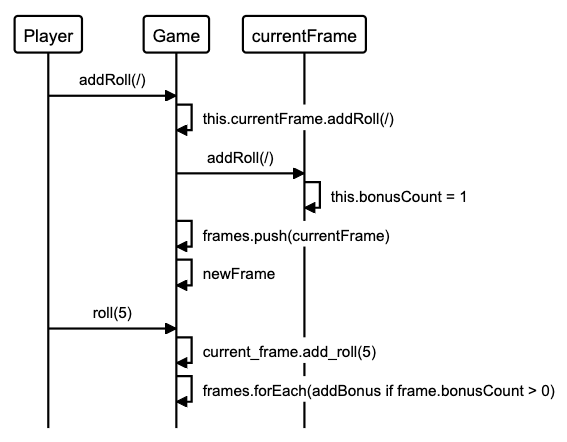
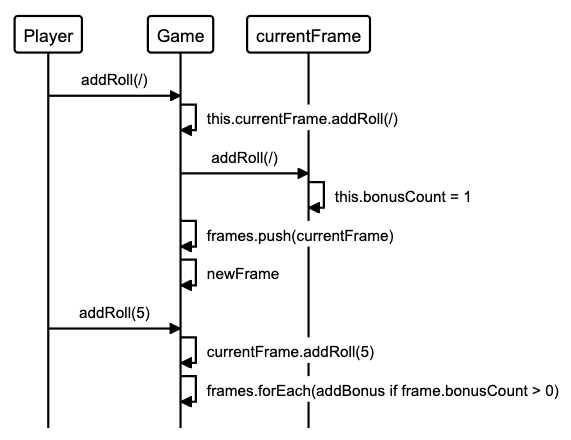
implements score and add roll in frame, sets up jasmine for npm

Changed region(s): [[0.03, 0.0295, 0.9894, 0.975]]

diff --git a/spec/frameSpec.js b/spec/frameSpec.js
@@ -1,0 +1,18 @@
+'use strict';
+
+describe('Frame', function() {
+  let frame;
+
+  beforeEach(function() {
+    // let frameClass = require('../js/src/frame')
+    // frame = new frameClass
+    frame = new Frame
+  })
+
+  describe('score', function() {
+    it('calculates the score after 1 roll', function() {
+      frame.addRoll(5)
+      expect(frame.score()).toBe(5)
+    });
+  });
+});

diff --git a/js/src/frame.js b/js/src/frame.js
@@ -1,0 +1,18 @@
+'use strict';
+
+class Frame {
+  constructor() {
+    this.rolls = [];
+  }
+
+  addRoll(roll) {
+    this.rolls.push(roll);
+  }
+
+  score() {
+    const reducer = (accumulator, currentValue) => accumulator + currentValue;
+    return this.rolls.reduce(reducer);
+  }
+}
+
+// module.exports = Frame;

diff --git a/js/SpecRunner.html b/js/SpecRunner.html
@@ -15,7 +15,7 @@
     <script src="src/frame.js"></script>
 
     <!-- include spec files here... -->
-    <script src="spec/frameSpec.js"></script>
+    <script src="../spec/frameSpec.js"></script>
 
   </head>
 

diff --git a/README.md b/README.md
@@ -1,6 +1,8 @@
 Bowling Challenge 🎳
 ====================
 
+[![Build Status](https://travis-ci.com/AJ8GH/bowling-challenge.svg?branch=master)](https://travis-ci.com/AJ8GH/bowling-challenge)
+
 Bowling score tracker written in JavaScript
 
 ## Getting Started
@@ -9,6 +11,16 @@ Bowling score tracker written in JavaScript
 
 ## Approach and Design
 
+### Classes
+
+Frame:
+-
+
+Game:
+-
+
+## Planning
+
 ### Sequence Diagrams
 
 #### Spare Bonus
@@ -16,5 +28,32 @@ Bowling score tracker written in JavaScript
 ![spare-bonus](public/images/spare-bonus.png)
 
 #### Strike Bonus
-
 ![strike-bonus](public/images/strike-bonus.png)
+
+
+### User Stories
+```
+As a bowler,
+So that I can track my score while I play,
+I want to be able to record a score from 1 roll.
+
+As a bowler,
+So that I can track my total score easily throughout a game,
+I want my scores to automatically accumlate as I enter them.
+
+As a bowler,
+So that my score is accurate and my experience is enjoyable,
+I want my bonuses to be added to frames automatically.
+
+As a bowler,
+So that I can get extra points,
+I want the final frame to allow a bonus roll if I get a spare.
+
+As a bowler,
+So that I can bowl a perfect game,
+I want the final frame to allow 2 bonus rolls if I get a strike.
+
+As a bowler,
+So that my game flows and I can focus on the bowling,
+I want the game to automatically register when it is the final frame.
+```

diff --git a/sequence_diagrams.md b/sequence_diagrams.md
@@ -14,8 +14,8 @@ f->f: "this.bonusCount = 1"
 
 g->g: "frames.push(currentFrame)"
 g->g: "newFrame"
-p->g: "roll(5)"
-g->g: "current_frame.add_roll(5)"
+p->g: "addRoll(5)"
+g->g: "currentFrame.addRoll(5)"
 g->g: "frames.forEach(addBonus if frame.bonusCount > 0)"
 ```
 
@@ -34,7 +34,7 @@ g->g: "frames.push(currentFrame)"
 g->g: "frames.forEach(addBonus if frame.bonusCount > 0)"
 g->g: "newFrame"
 p->g: "addRoll(X)"
-g->g: "current_frame.add_roll(X)"
+g->g: "currentFrame.addRoll(X)"
 f->f: "this.bonusCount = 2"
 g->g: "frames.push(currentFrame)"
 g->g: "frames.forEach(addBonus if frame.bonusCount > 0)"
